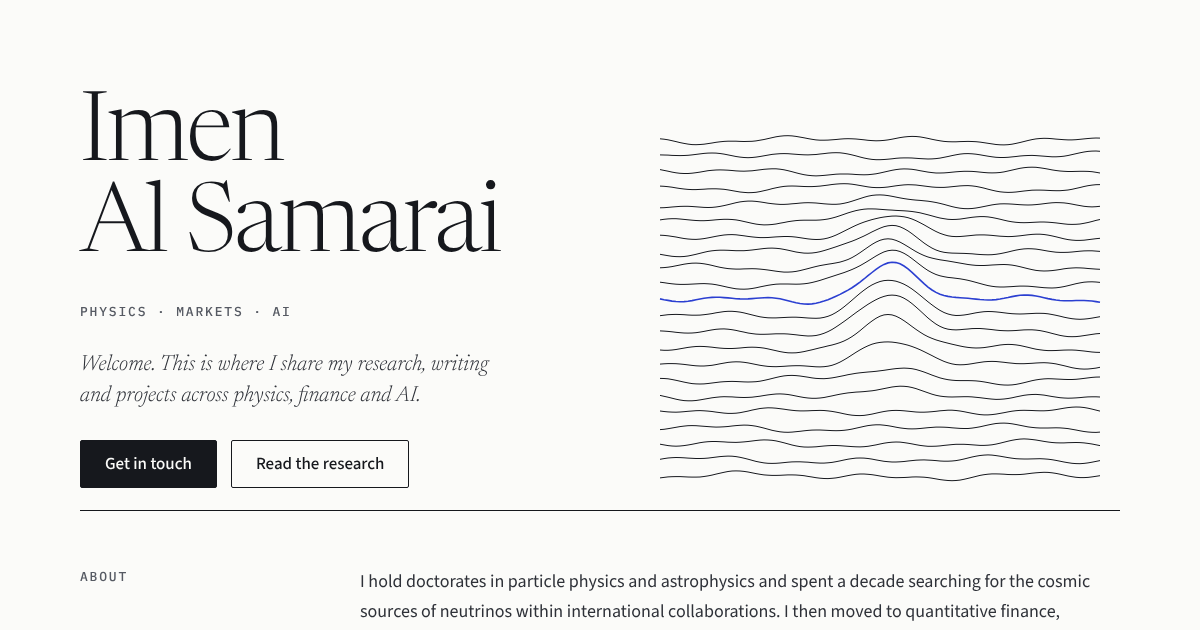
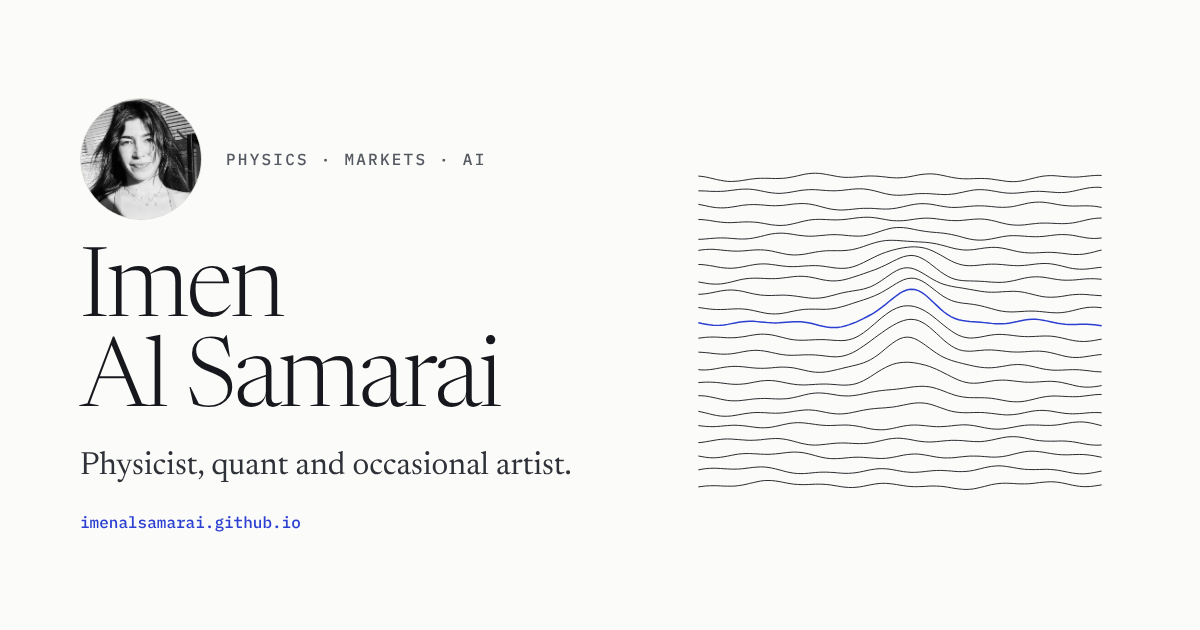
Landing: contact-first hero with tagline, Save-my-contact vCard, new link preview image
Claude-Session: https://claude.ai/code/session_01MQ2422ciLTfbFgoTtVWGoA

diff --git a/src/styles/global.css b/src/styles/global.css
@@ -251,3 +251,27 @@ img { max-width: 100%; display: block; }
 .contact-address { margin: 4px 0; font-family: var(--mono); font-size: clamp(14px, 4vw, 17px); overflow-wrap: anywhere; padding: 14px 16px; background: var(--panel); border: 1px solid var(--line); }
 .contact-close { position: absolute; top: 14px; right: 14px; margin: 0; }
 @media (max-width: 480px) { .contact { padding: 28px 20px; } }
+
+/* ---------- Landing ---------- */
+.landing { display: grid; grid-template-columns: minmax(0, 1fr) minmax(280px, 460px); gap: 56px; align-items: center; padding: 72px 0 64px; }
+.landing-text { display: flex; flex-direction: column; gap: 24px; }
+.landing-id { display: flex; gap: 24px; align-items: center; }
+.landing-id img { width: 112px; height: 112px; border-radius: 50%; object-fit: cover; object-position: 50% 25%; border: 1px solid var(--line); }
+.landing h1 { margin: 0; font-family: var(--serif); font-weight: 300; font-size: clamp(56px, 8vw, 100px); line-height: 0.94; letter-spacing: -0.03em; }
+.tagline { margin: 0; font-family: var(--serif); font-size: clamp(22px, 2.4vw, 28px); line-height: 1.35; color: var(--fg-2); }
+.contact-actions { display: flex; flex-wrap: wrap; gap: 12px; padding-top: 4px; }
+.landing-art .ridges { margin-left: auto; }
+.selected-strip { border-top: 1px solid var(--fg); padding: 28px 0 64px; }
+.strip { display: grid; grid-template-columns: repeat(auto-fit, minmax(200px, 1fr)); gap: 0 40px; margin-top: 8px; }
+.strip .mini { border-top: 1px solid var(--line); }
+.strip .mini .t { font-size: 20px; }
+.strip-links { display: flex; flex-wrap: wrap; gap: 12px 28px; margin: 28px 0 0; }
+@media (max-width: 760px) {
+  .landing { grid-template-columns: 1fr; gap: 20px; padding: 16px 0 40px; }
+  .landing-art { order: -1; margin: 0 -16px; height: 150px; overflow: hidden; }
+  .landing-art .ridges { max-width: none; width: 100%; height: auto; margin-top: -110px; }
+  .landing-id { gap: 16px; }
+  .landing-id img { width: 84px; height: 84px; }
+  .contact-actions { display: grid; grid-template-columns: 1fr 1fr; }
+  .contact-actions .save { grid-column: 1 / -1; }
+}

diff --git a/src/pages/imen-al-samarai.vcf.js b/src/pages/imen-al-samarai.vcf.js
@@ -1,0 +1,23 @@
+// "Save my contact" — a contact card (vCard) generated from src/data/site.yml.
+import { site } from '../lib/site.js';
+
+export function GET(context) {
+  const [first, ...rest] = site.name.split(' ');
+  const lines = [
+    'BEGIN:VCARD',
+    'VERSION:3.0',
+    `N:${rest.join(' ')};${first};;;`,
+    `FN:${site.name}`,
+    `EMAIL;TYPE=INTERNET:${site.email_user}@${site.email_domain}`,
+    `URL:${context.site}`,
+    site.links.linkedin && `X-SOCIALPROFILE;TYPE=linkedin:${site.links.linkedin}`,
+    site.links.linkedin && `item1.URL:${site.links.linkedin}`,
+    site.links.linkedin && 'item1.X-ABLabel:LinkedIn',
+    `ADR;TYPE=WORK:;;;${site.location};;;`,
+    `NOTE:${site.fields}`,
+    'END:VCARD',
+  ].filter(Boolean);
+  return new Response(lines.join('\r\n') + '\r\n', {
+    headers: { 'Content-Type': 'text/vcard; charset=utf-8' },
+  });
+}
